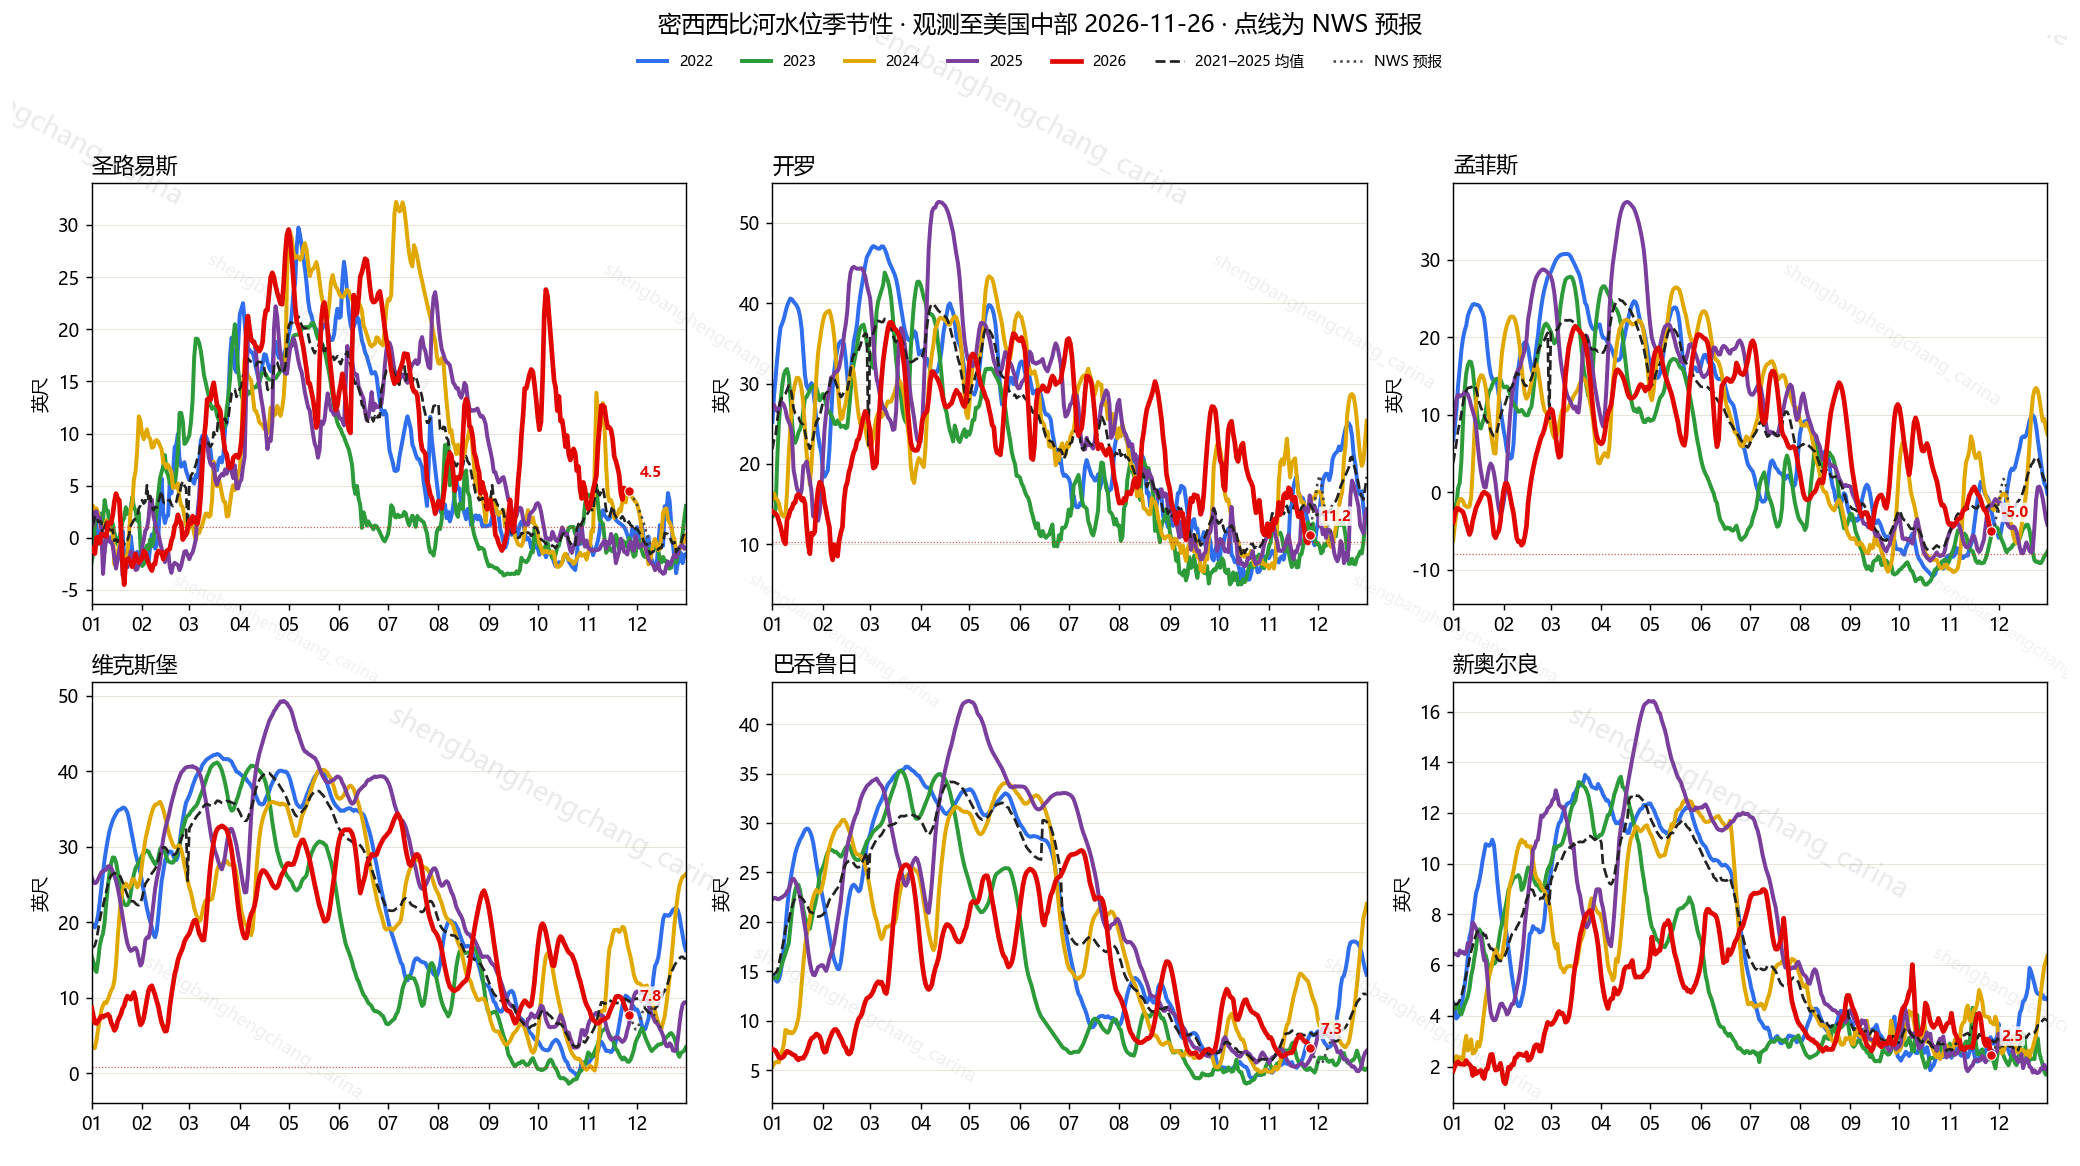
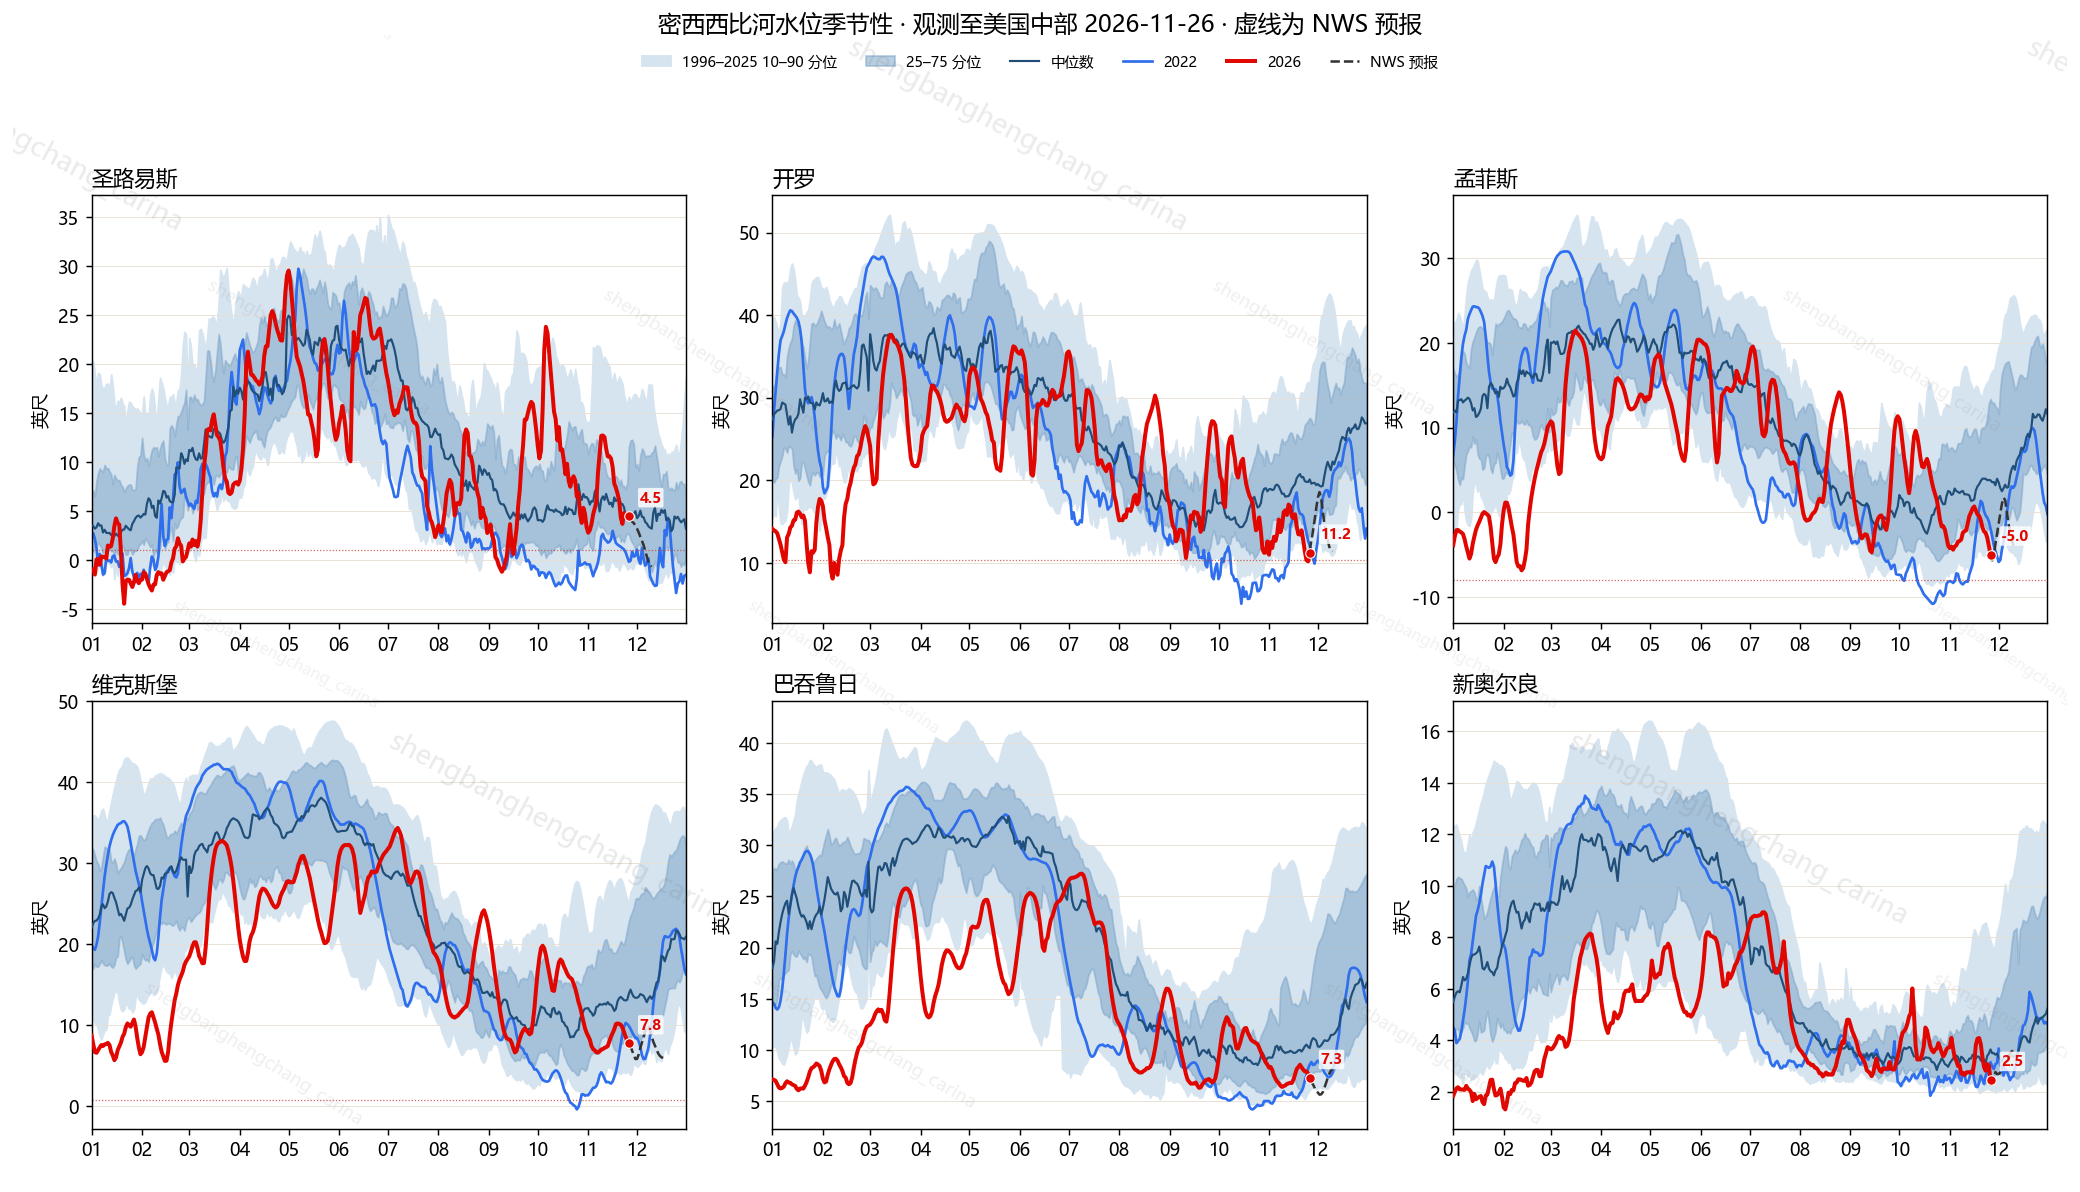
水位图改回分位阴影，只另加 2022 年。
六站仍是 3 列 2 行，预报用虚线。运费仍是 3 列 1 行。

diff --git a/index.html b/index.html
@@ -153,9 +153,9 @@ footer { margin-top: 48px; padding-top: 18px; border-top: 1px solid var(--line);
   </div>
 
   <h2>水位季节性</h2>
-  <p class="notes">三列两行：圣路易斯、开罗、孟菲斯、维克斯堡、巴吞鲁日、新奥尔良。红线是 2026 年，向前依次是 2025 紫、2024 黄、2023 绿、2022 蓝。黑色虚线是 2021–2025 年同日均值。灰色点线是 NWS 预报。最新观测点有数字。红色细点线是各站低水或减载参考（新奥尔良、巴吞鲁日没有公布低水阈值）。</p>
+  <p class="notes">三列两行。浅蓝是 1996–2025 年同日 10–90 分位，中蓝是 25–75 分位（正常），深蓝是中位数。红线是 2026 年，蓝线只加 2022 年，其余年份不单画。灰色虚线是 NWS 预报。最新观测点有数字。红色细点线是低水或减载参考。</p>
   <figure>
-    <img src="mississippi_stage_seasonal_3x2_asof_2026-11-26.png" alt="六站水位季节性，3列2行。2026 年为红线，并画出 2022 至 2025 年、五年均值和 NWS 预报。">
+    <img src="mississippi_stage_seasonal_3x2_asof_2026-11-26.png" alt="六站水位季节性，3列2行。阴影为历史分位，红线为 2026 年，蓝线为 2022 年，虚线为预报。">
     <figcaption>观测到美国中部时间 2026-11-26。圣路易斯预报继续下行，约 12 月 7 日低于 1.0 ft。开罗预报先升向约 18 ft 再回落。新奥尔良用日平均，避开单次潮位。</figcaption>
   </figure>
 
@@ -199,7 +199,7 @@ footer { margin-top: 48px; padding-top: 18px; border-top: 1px solid var(--line);
   <h2>数据来源与日期</h2>
   <div class="card notes">
     <ul>
-      <li>水位最新观测：美国中部时间 2026-11-26 18:00–19:00，对应北京时间 2026-11-27 08:00–09:00。来自 USGS 瞬时值（圣路易斯、巴吞鲁日）和 NWS NWPS（其余各站）。新奥尔良判断用近 24 小时平均 2.64 ft，同一时刻瞬时值为 1.81 ft。</li>
+      <li>水位最新观测：美国中部时间 2026-11-26 18:00–19:00，对应北京时间 2026-11-27 08:00–09:00。来自 USGS 瞬时值（圣路易斯、巴吞鲁日）和 NWS NWPS（其余各站）。新奥尔良判断用近 24 小时平均，瞬时值为 1.54 ft。</li>
       <li>水位气候态：1996–2025 年同月日。圣路易斯为 USGS 每日 08:00 水尺；开罗、孟菲斯、维克斯堡为 USACE CWMS 日水位；新奥尔良为 USACE 小时水位的日平均；巴吞鲁日为 USGS 日平均，1998–2003 年基本缺失。</li>
       <li>驳船运费：USDA AMS，数据集 Downbound Grain Barge Rates，最新周末 2026-11-24（第 47 周）。下一期通常在随后的周四。</li>
       <li>近期 USGS / NWS / USACE 读数是临时数据，可能修订。预报不是实测。</li>
